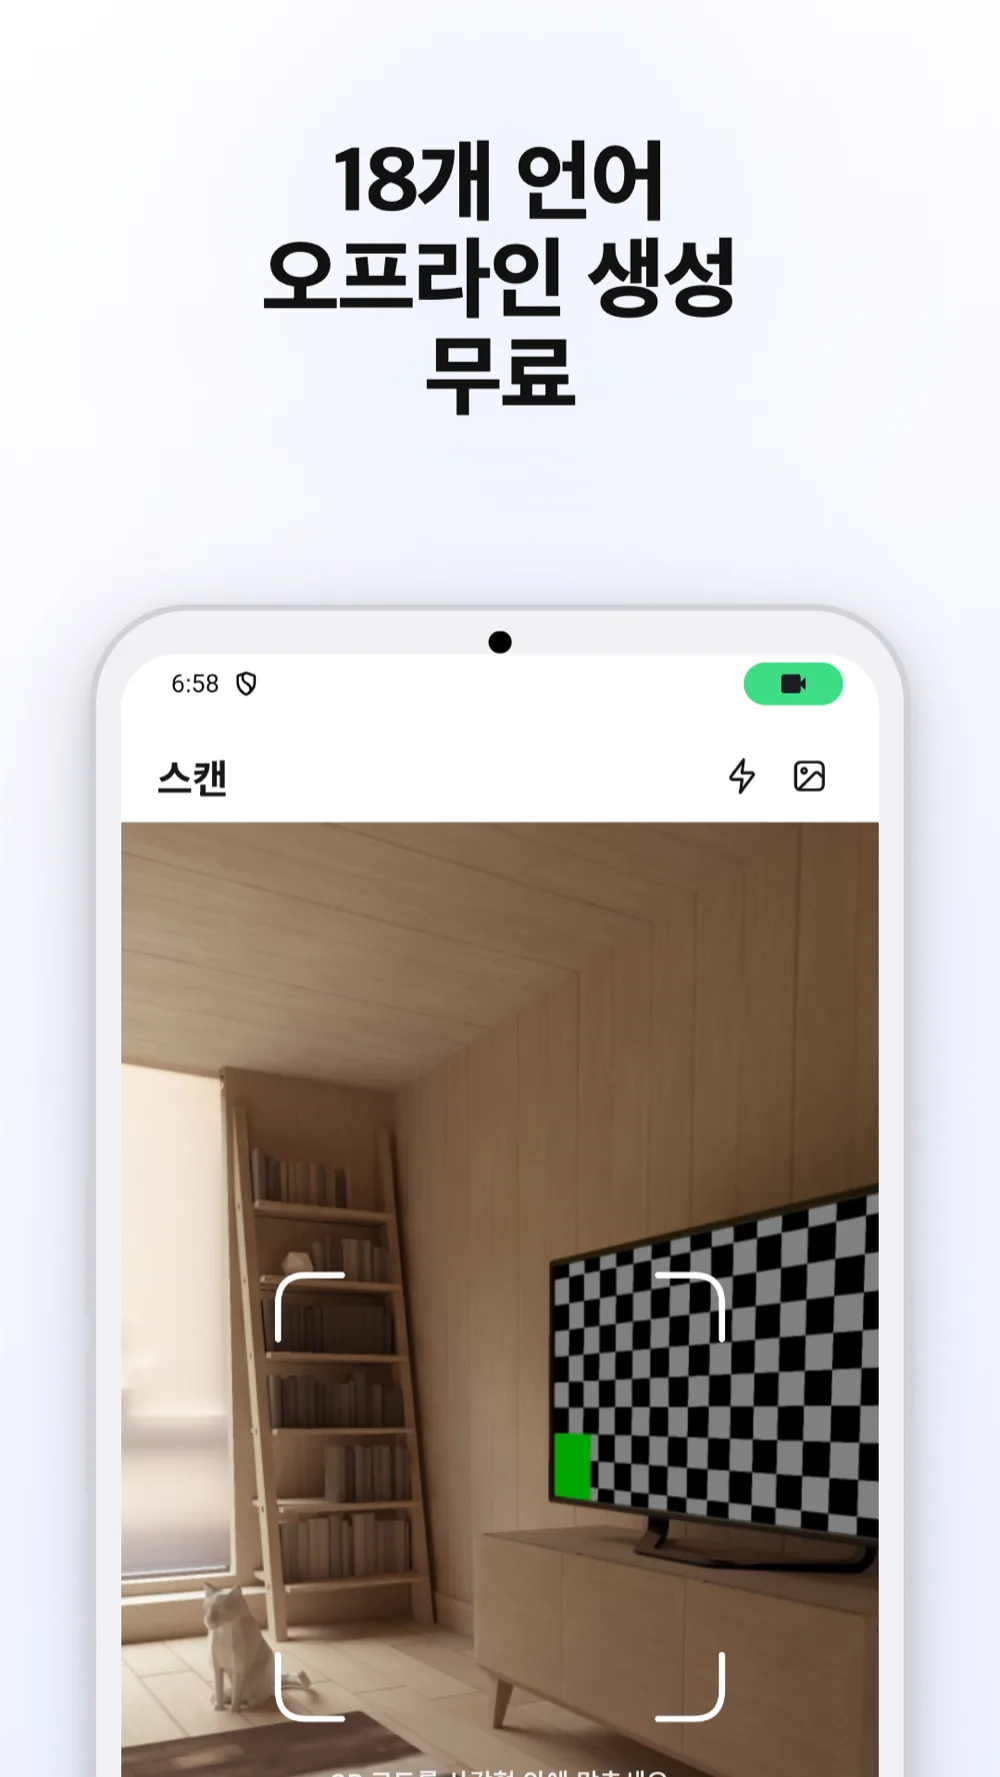
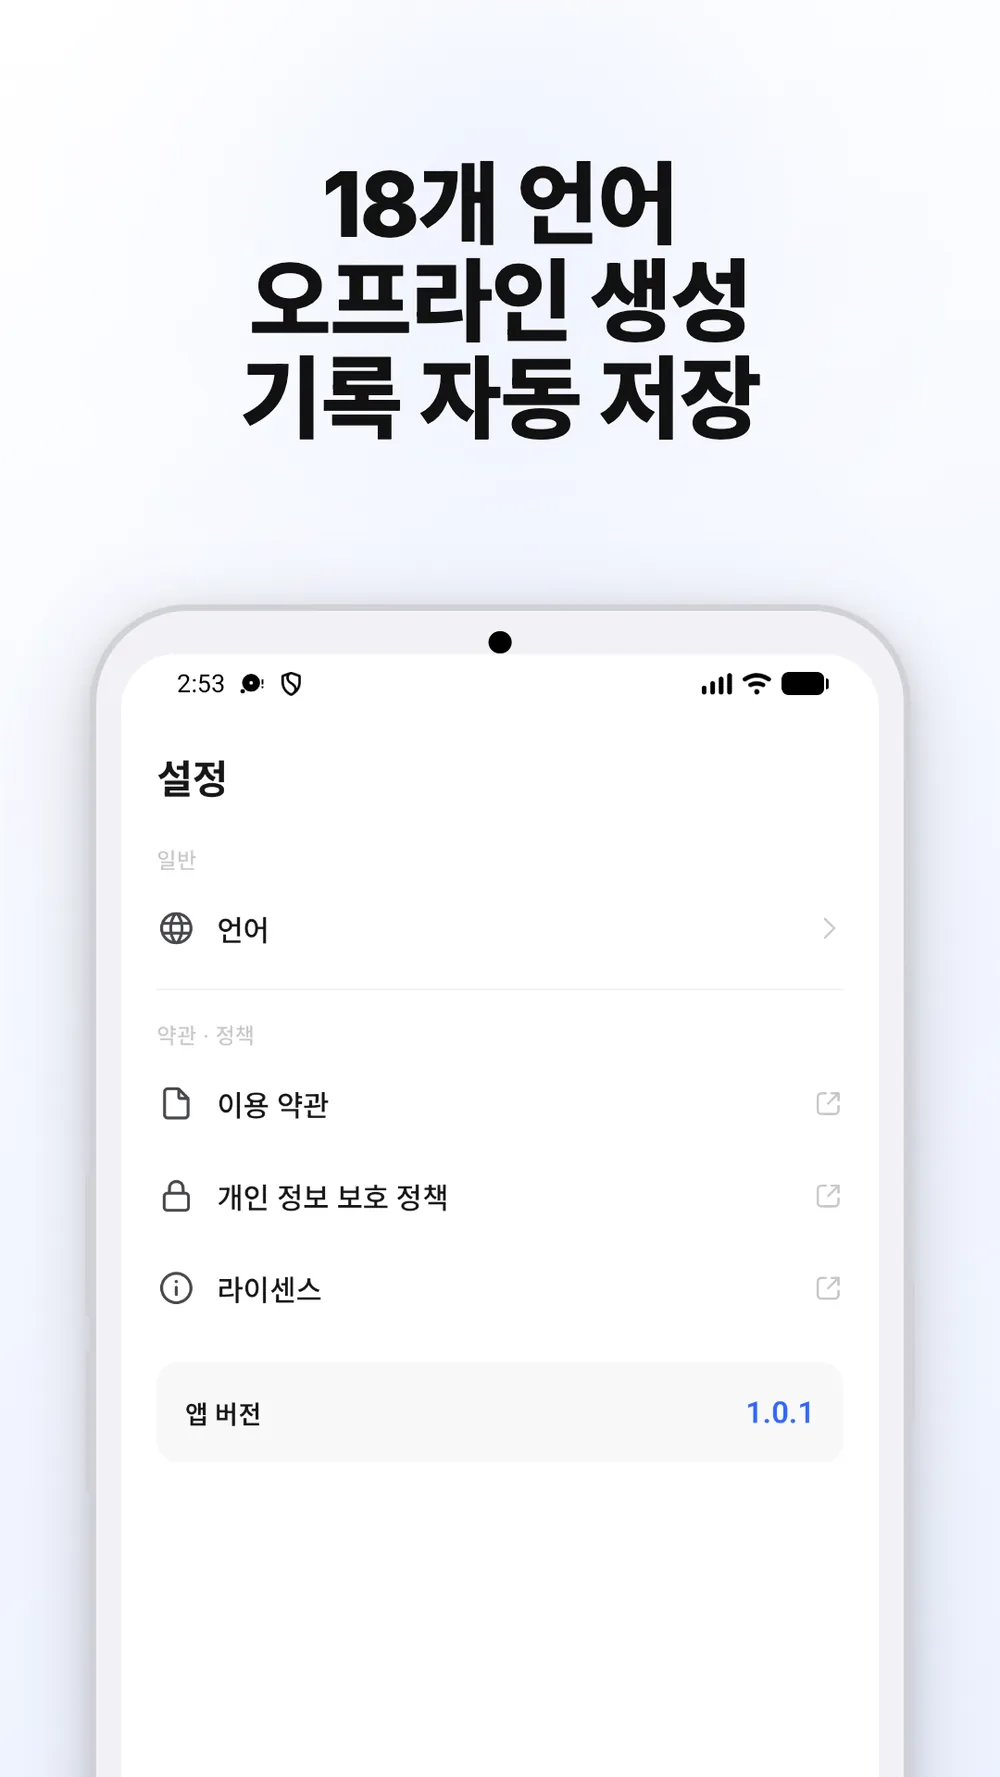
fix(qr-scanner): show Korean settings in fifth screenshot

diff --git a/qr-scanner/index.html b/qr-scanner/index.html
@@ -213,7 +213,7 @@
           </div>
 
           <div class="showcase__row">
-            <div class="showcase__shot"><img src="../assets/screenshots/ko/05-more.webp" alt="설정 화면 — 언어, 약관, 앱 버전" width="1000" height="1777" loading="lazy" /></div>
+            <div class="showcase__shot"><img src="../assets/screenshots/ko/05-more.webp?v=a9eaaa8f937b" alt="설정 화면 — 언어, 약관, 앱 버전" width="1000" height="1777" loading="lazy" /></div>
             <div class="showcase__text">
               <span class="showcase__num" aria-hidden="true">05</span>
               <h3>18개 언어 · 오프라인 동작</h3>
